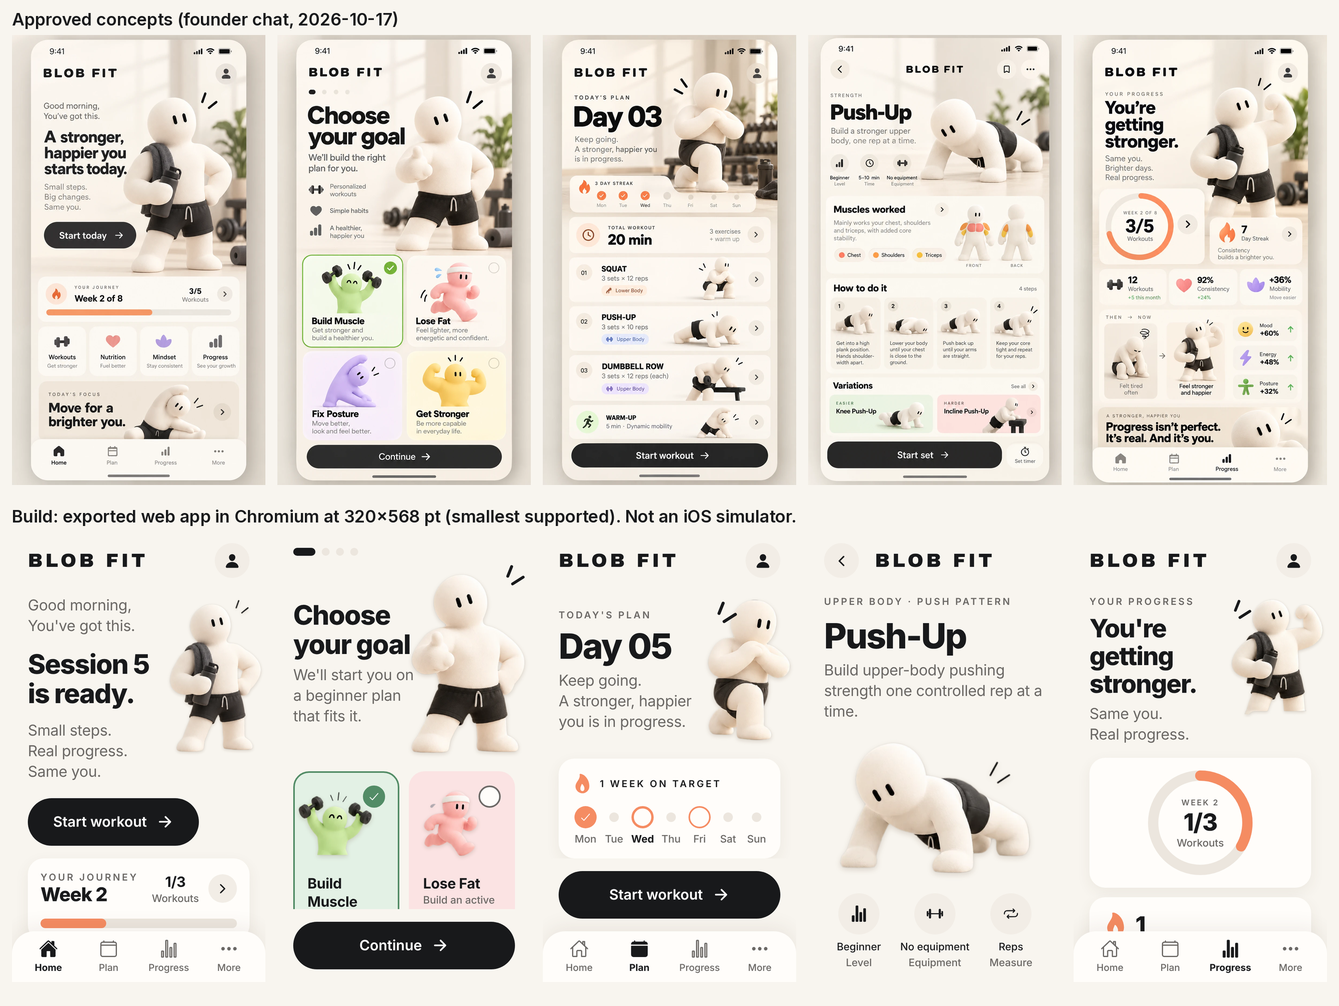
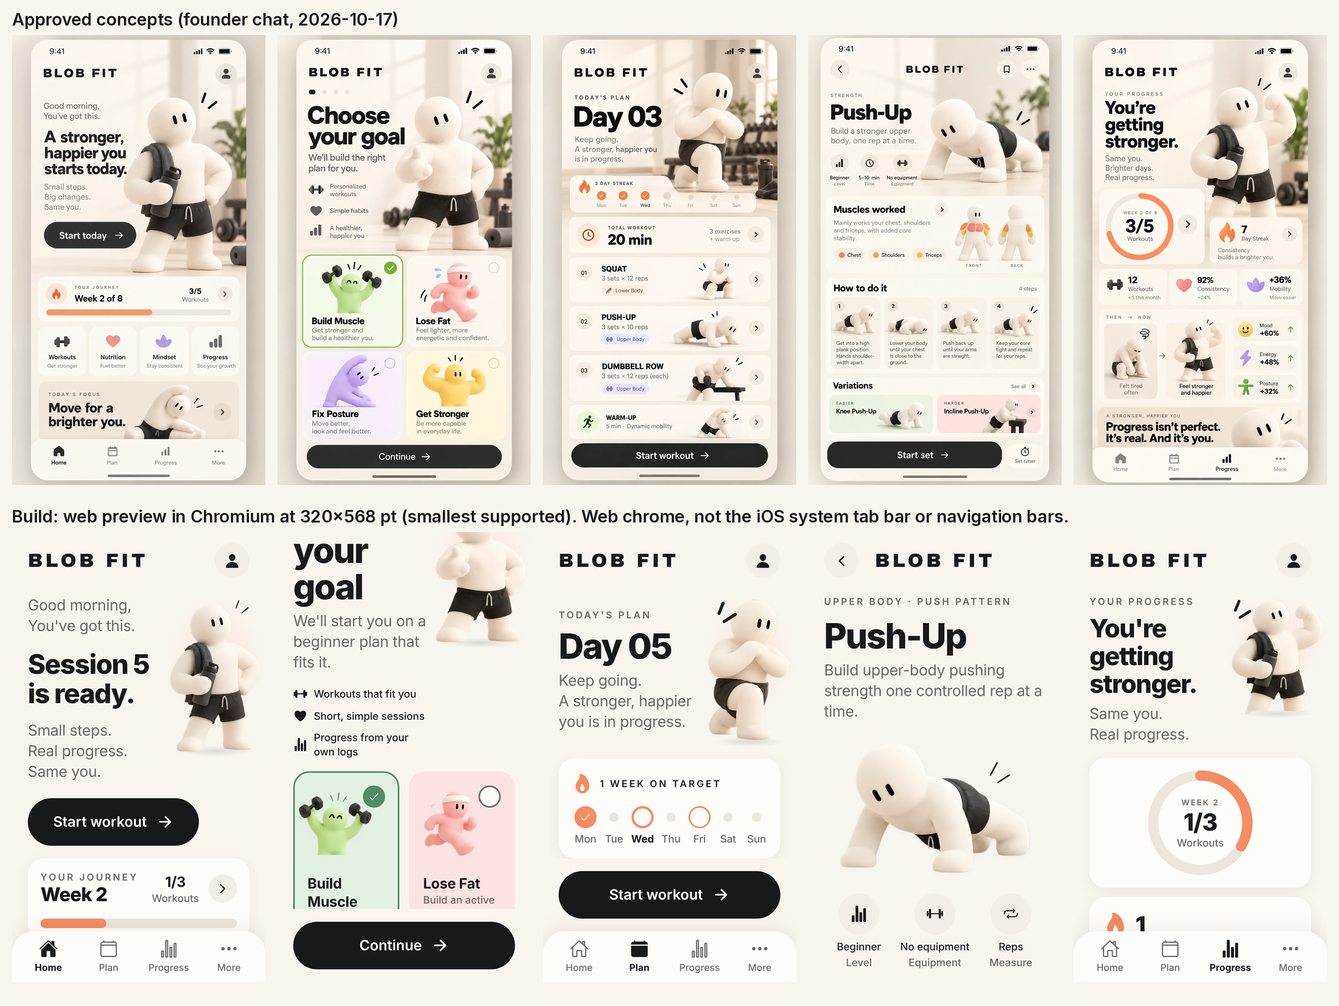
docs: native iOS round, live web preview, refreshed screenshots
- Release notes: preview URL and how it is published and verified, the
  iOS-vs-web chrome table, what changed in this round and what is still
  unverified on a device.
- Screenshots: concept-vs-build at 393 and 320pt and an all-screens
  sheet, from the latest e2e runs (web build, labelled as such). The
  first-round comparison image is removed.

Claude-Session: https://claude.ai/code/session_01GxvcnDqjGiTzFAnzHf84DC

Changed region(s): [[0.0306, 0.493, 0.7961, 0.7704]]

diff --git a/docs/MVP_RELEASE_NOTES.md b/docs/MVP_RELEASE_NOTES.md
@@ -2,7 +2,11 @@
 
 **Branch:** `claude/zealous-cannon-9cvkob` · **Date:** 2026-10-17 · **Status:** feature-complete MVP preview. This is not an app-store release.
 
-![Approved concepts vs built app](screenshots/concept-vs-build.png)
+**Web preview:** https://onderhalis.github.io/blobfit/ (the exported web build; not the native app). See [Web preview](#web-preview) and, for iPhone, [`NATIVE_TESTING.md`](NATIVE_TESTING.md).
+
+![Approved concepts vs built app at 393pt](screenshots/concept-vs-build-393.png)
+
+All main screens: [`screenshots/all-screens-393.png`](screenshots/all-screens-393.png). Smallest supported phone: [`screenshots/concept-vs-build-320.png`](screenshots/concept-vs-build-320.png).
 
 ## Run it
 
@@ -76,17 +80,47 @@ Side-by-side sets: [393×852](screenshots/concept-vs-build-393.png) and [320×56
   - Light haptics on set completion and a success haptic on finishing.
 - **Exercise detail:** a simplified front/back muscle map (main muscles red, supporting yellow), labelled *pending coach review*.
 - **Regression guard:** the e2e smoke test also runs at 320×568 in CI (`E2E_VIEWPORT`).
-- **Web demo, ready to publish:** `.github/workflows/pages.yml` publishes the web build to `https://onderhalis.github.io/blobfit/` and checks that the live page serves the app. It is manual only: after merging, enable Pages (Settings → Pages → Source: GitHub Actions) and run the workflow. Its sub-path build passes the full smoke test locally. It is a web preview, not native proof.
-- **Not done yet, and why:**
-  - Native tab bar (`NativeTabs`): waiting for the first device or simulator run, so the system tab bar is not switched in blind.
-  - Step-by-step pose images and exercise-specific art: requested in issue #1 (CC-007).
-  - TestFlight / EAS: needs the founder's Apple Developer and Expo accounts.
+
+## Native iOS round
+
+iOS now uses the system chrome. Android and the web keep the custom chrome, which the e2e tests and the web preview exercise.
+
+| Area | iOS | Android / web |
+|---|---|---|
+| Tabs | `NativeTabs` (UITabBarController, Liquid Glass on iOS 26) with SF Symbols, `(tabs)/_layout.ios.tsx` | Floating custom tab bar |
+| Pushed screens | Native navigation bar, back chevron, edge swipe-back | Custom top bar with back button |
+| Workout | Sheet; swipe down minimises it (it stays saved) | Full screen, minimise button |
+| Insets | UIKit automatic scroll insets (status bar, nav bar, tab bar, home indicator) | Safe-area insets applied by hand |
+| Confirmations, swap, units | System alert, action sheet, UISegmentedControl | Modal sheet, inline list, pill control |
+| Icons | SF Symbols (explicit map, unit-tested) | Ionicons |
+
+Also in this round:
+- **Art:** the interim cut-outs are upscaled 2–4× (Real-ESRGAN, same art, nothing redrawn) and served as WebP, so they are sharp on 3× screens. See `assets/illustrations/interim/README.md`.
+- **Hero:** Blob sits on a soft warm glow with a floor shadow, as in the concepts' sunlit studio.
+- **Onboarding:** the goal step uses the shared hero and the concept's three promises.
+- **Plan rows:** title-case names, a smaller badge and thumbnail, one-line tags; nothing breaks mid-word, even at 320pt.
+- **Tests:** headline fitting has unit tests.
+- **EAS:** `eas.json` and a bundle identifier are added; `docs/NATIVE_TESTING.md` covers Expo Go, the Simulator, EAS and TestFlight.
+
+**Not verified:** none of the iOS-only paths has run on a simulator or device. This container has no macOS. They are type-checked and bundle for iOS and Android.
+
+## Web preview
+
+https://onderhalis.github.io/blobfit/ is served from the `gh-pages` branch (published with the founder's approval).
+
+- **Publish:** `tools/preview/deploy-pages.sh` builds the committed, pushed source for the `/blobfit` sub-path. It adds a page per route so deep links return 200, and commits the result to `gh-pages` with `preview.json`, which records the source commit and build id.
+- **Verify:** every deploy runs the "Verify web preview" workflow on `gh-pages`. It waits until the live URL serves that build id, then runs the full Playwright smoke test against the **live HTTPS URL** at 390×844 and 320×568 from a GitHub runner.
+- **Limits:** data stays in the visitor's browser (`localStorage`). There is no backend, analytics or account. It is the web build, so it shows the web chrome (custom tab bar and top bars), not the iOS system UI.
+
+Still open:
+- Step-by-step pose images and exercise-specific art: requested in issue #1 (CC-007, CC-009).
+- TestFlight / EAS: needs the founder's Apple Developer and Expo accounts.
 
 ## Known gaps and placeholders
 
-- **Art is interim.** The mascot cut-outs come from 941×1672 concept images and are soft on 3× screens. Hip hinge, glute bridge, plank, box/goblet squat, RDL, band row and prone Y raise have no approved pose, so they use a neutral icon tile. Production exports are requested in issue #1 (`CC-001`).
+- **Art is interim.** The mascot cut-outs come from 941×1672 concept images. They are upscaled for 3× screens, but they are not production exports. Hip hinge, glute bridge, plank, box/goblet squat, RDL, band row and prone Y raise have no approved pose, so they use a neutral icon tile. Production exports are requested in issue #1 (`CC-001`).
 - **Canonical asset PNGs** (11 files in `docs/ASSET_MANIFEST.md`) are still not on GitHub.
-- **Native runtime** has not been run on a simulator or device. iOS-only code paths (SF Symbols, system alerts, action sheet, haptics) are type-checked and bundled but unexercised. The quickest check is Expo Go: `npx expo start` on a computer, then scan the QR code with an iPhone.
+- **Native runtime** has not been run on a simulator or device. The iOS-only paths (system tab bar, navigation bars, sheet, automatic insets, SF Symbols, alerts, action sheet, segmented control, haptics) are type-checked and bundled but not exercised. The quickest check is Expo Go; see `docs/NATIVE_TESTING.md`.
 - **No notifications, no data export, no dark mode.** Dark mode is out of scope for the cream visual direction; `userInterfaceStyle` is locked to light.
 - **Copy review:** exercise text, the disclaimer and prescriptions need a qualified coach and legal review before any public release.
 - The working name "BLOB FIT" is pending trademark/app-store clearance. The app icon is a simple placeholder drawn from the canonical face.
